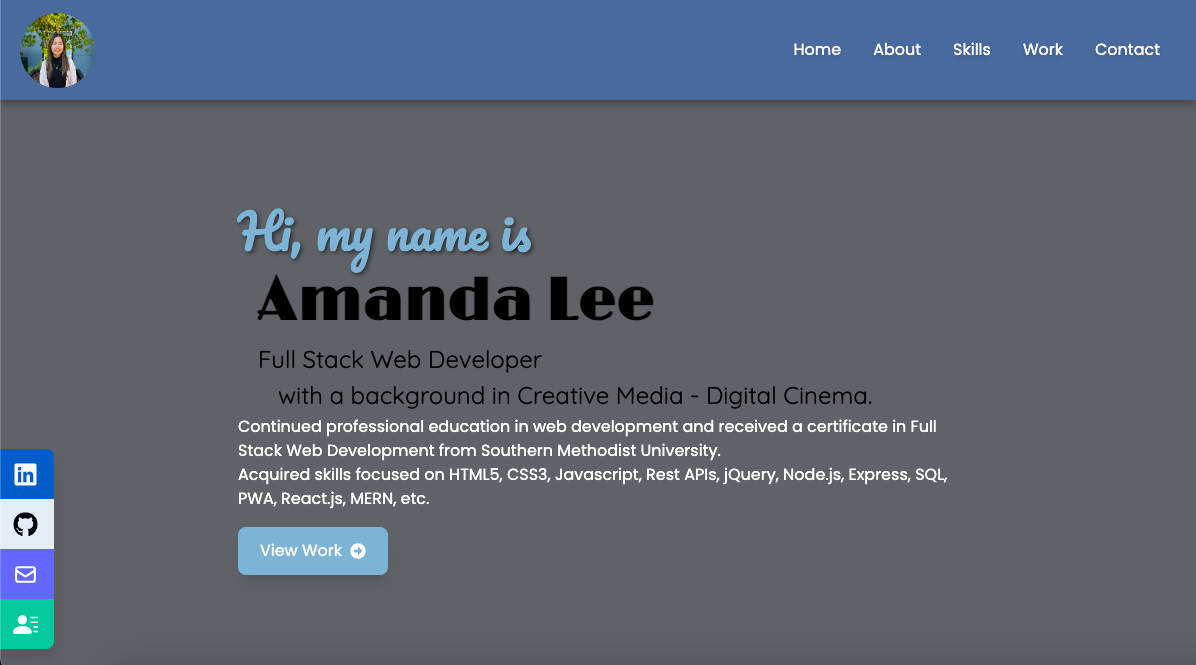
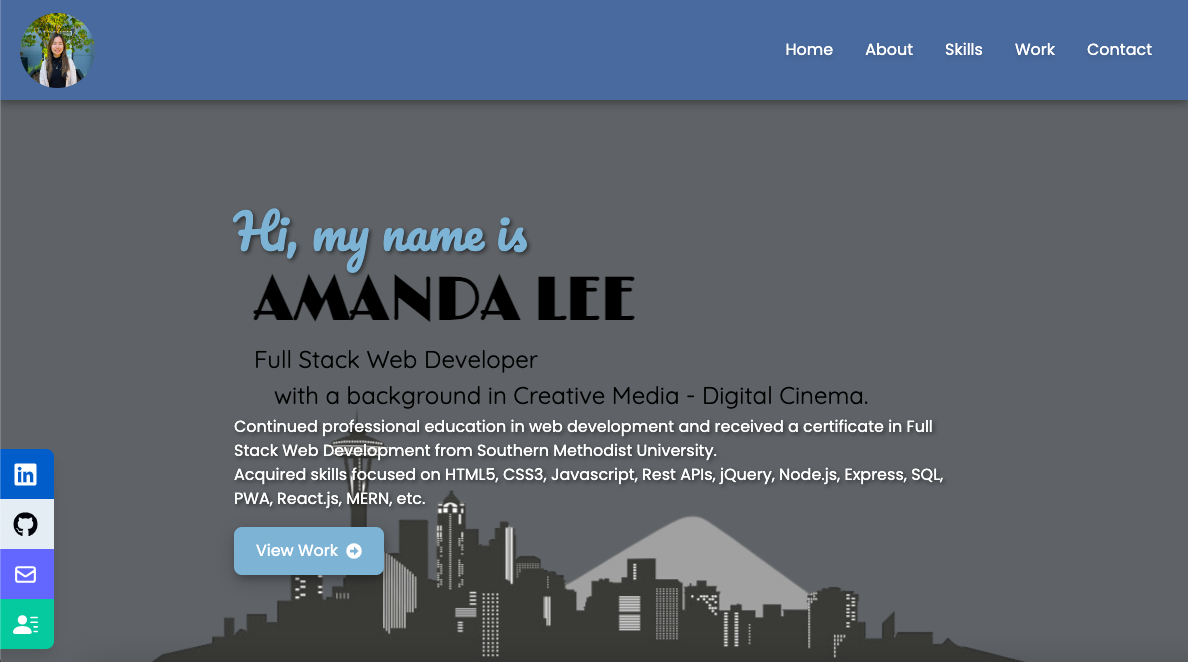
Fixed webpage source for homepage in README and replaced image with up-to-date image.

diff --git a/README.md b/README.md
@@ -10,7 +10,7 @@ Hi, my name is Amanda Lee. I am a Full Stack Web Developer eager to learn more. 
 I created this portfolio to showcase the skills that I have learned throughout my time at SMU boot camp and the accomplishments that have resulted from collaborations. What these projects reflect is teamwork, perseverance, communication, and overall hard work. 
 
 ## Webpage
-<img src="src/assets/portfoliojuly29.png.png" width="500px" alt="Webpage screenshot" />
+<img src="src/assets/portfoliojuly29.png" width="500px" alt="Webpage screenshot" />
 
 
 In the project directory, you can run:
